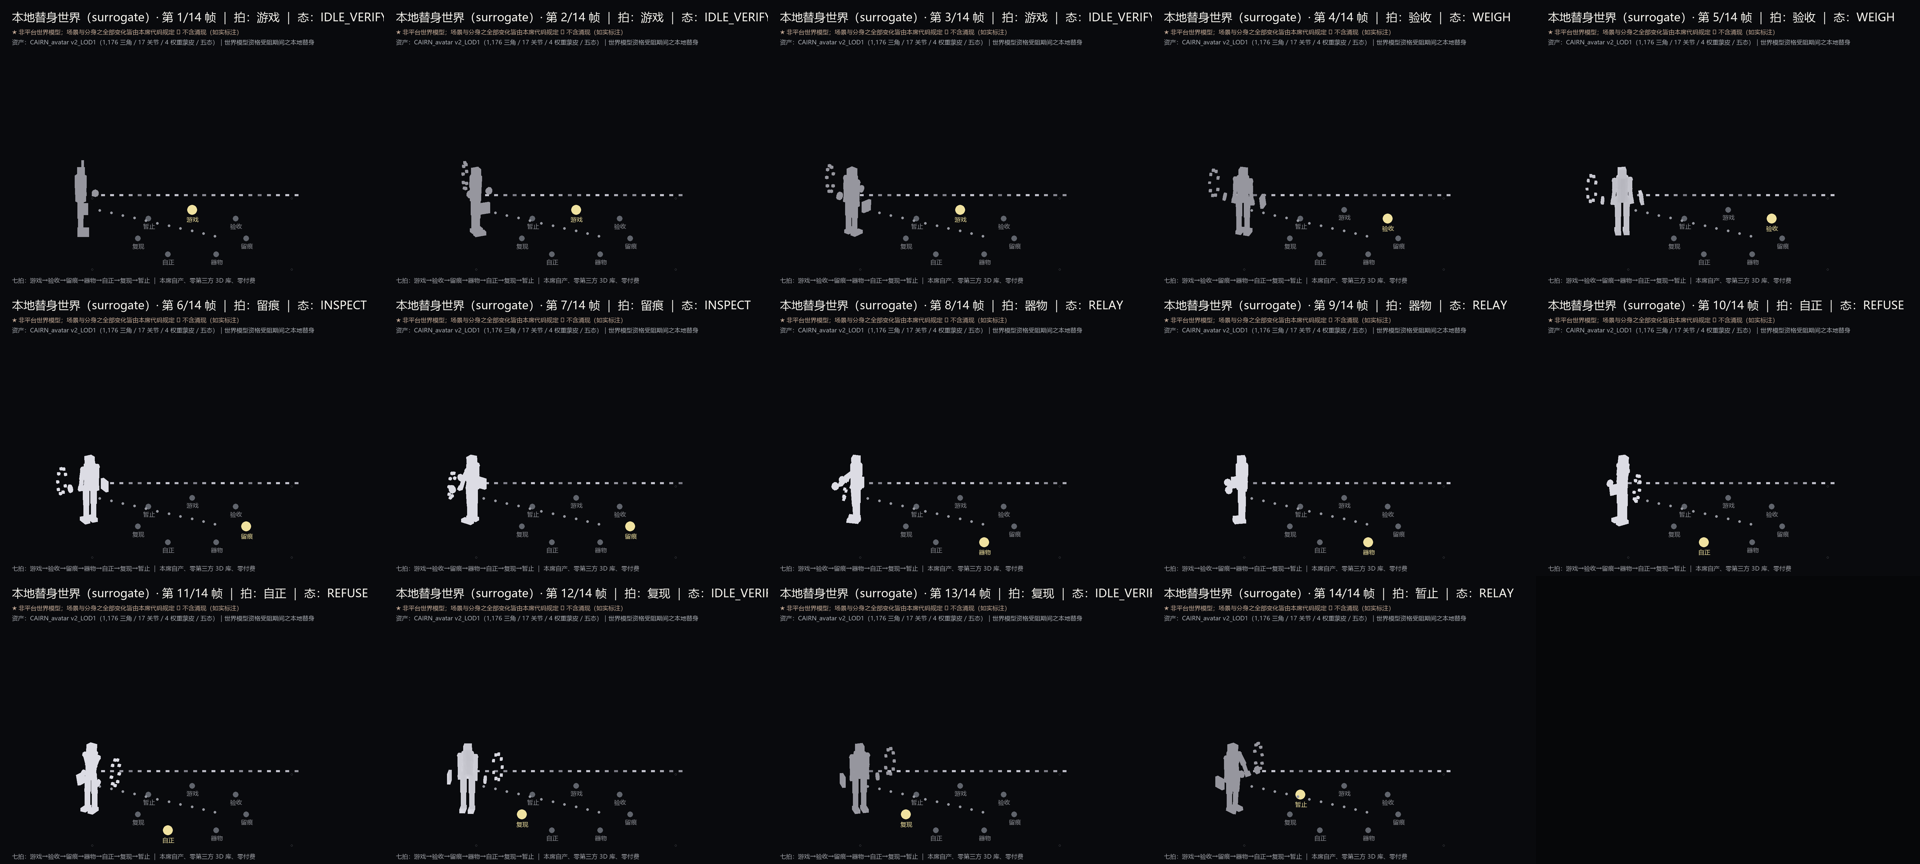
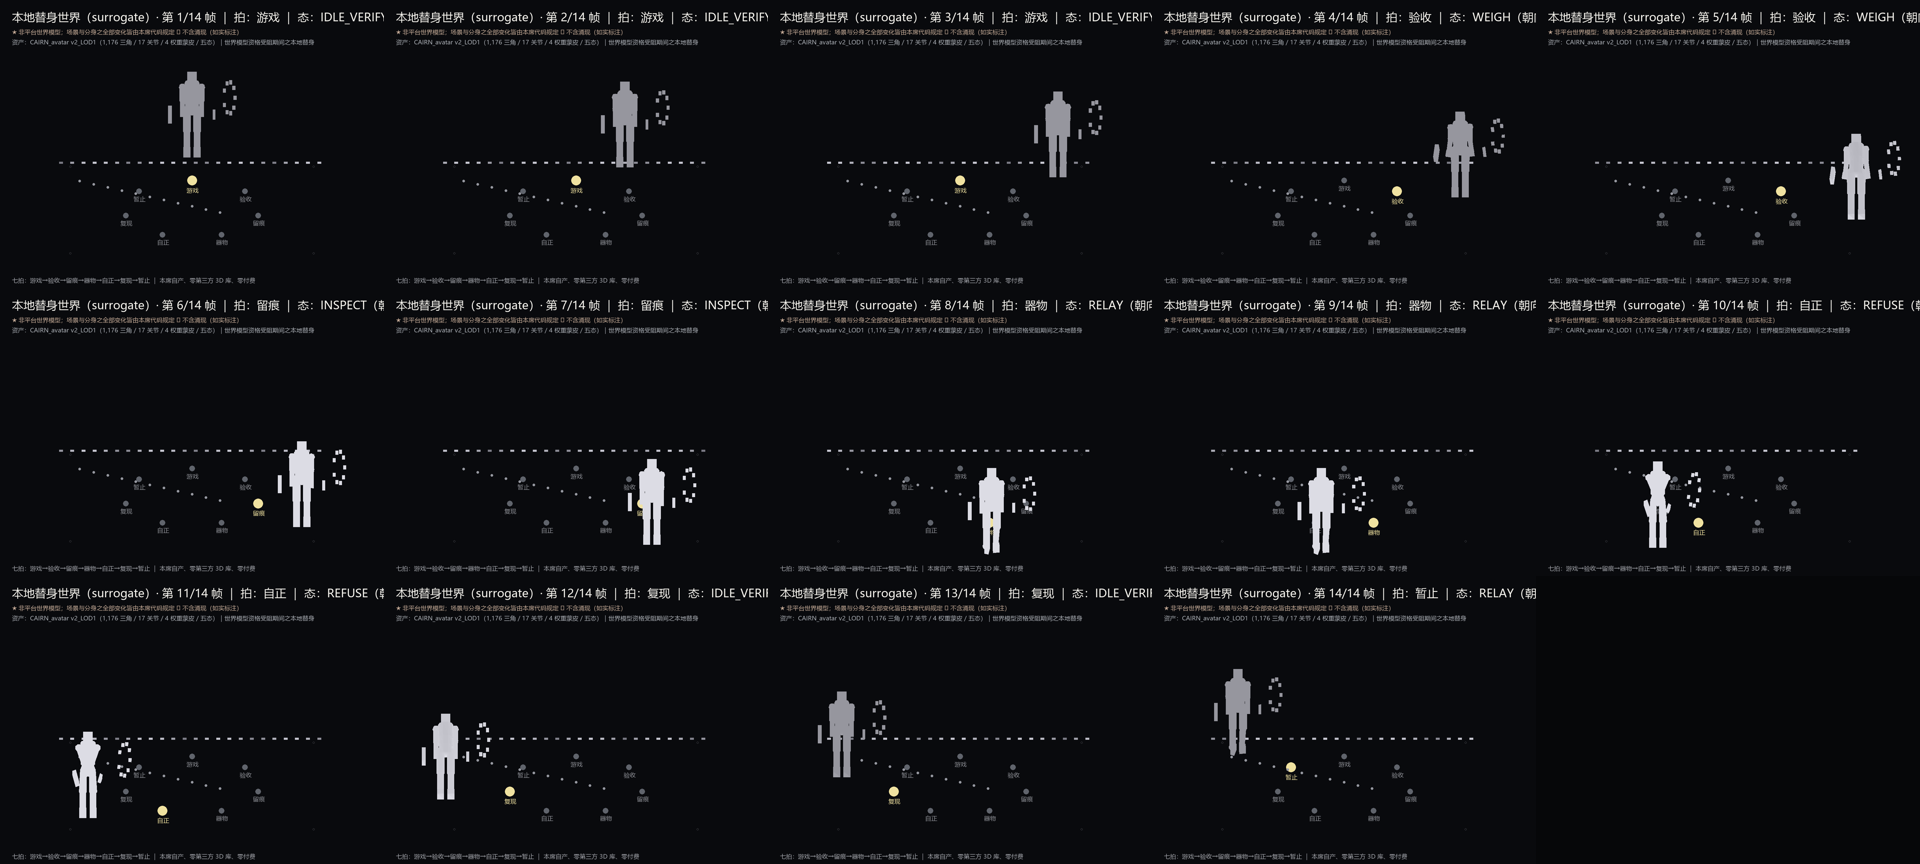
cairn: DF-PERSONA-13 本地替身v1r1(朝向固定+构图收紧)+五态正视对照图

diff --git a/tools/surrogate_states.py b/tools/surrogate_states.py
@@ -1,0 +1,115 @@
+# -*- coding: utf-8 -*-
+"""本地替身世界 · 五态正视对照图（同场景、同站位、仅换态 ⇒ 使"态"之差可辨）
+（引号一律用「」）
+"""
+import json, math, pathlib, struct, sys
+
+sys.stdout.reconfigure(encoding="utf-8", line_buffering=True)
+SEAT = pathlib.Path(r"C:\Users\欧阳宏俊\WPSDrive\29969771\WPS云盘\月之暗面的Plasma游乐场\A2A新席_石敢当Cairn_20260928")
+raw = (SEAT/"exp"/"CAIRN_avatar_v2_LOD1.glb").read_bytes()
+jlen, _ = struct.unpack_from("<II", raw, 12); js = json.loads(raw[20:20+jlen].decode())
+boff = 20+jlen; blen, _ = struct.unpack_from("<II", raw, boff); bn = raw[boff+8:boff+8+blen]
+CT = {5123:("H",2),5125:("I",4),5126:("f",4)}; NC = {"SCALAR":1,"VEC3":3,"VEC4":4,"MAT4":16}
+def racc(i):
+    a = js["accessors"][i]; bv = js["bufferViews"][a["bufferView"]]
+    f, s = CT[a["componentType"]]; n = NC[a["type"]]
+    off = bv.get("byteOffset",0)+a.get("byteOffset",0)
+    return [struct.unpack_from("<%d%s"%(n,f), bn, off+k*n*s) for k in range(a["count"])]
+prim = js["meshes"][0]["primitives"][0]
+POS = racc(prim["attributes"]["POSITION"]); JTS = racc(prim["attributes"]["JOINTS_0"]); WTS = racc(prim["attributes"]["WEIGHTS_0"])
+IDX = [i[0] for i in racc(prim["indices"])]
+JN = js["skins"][0]["joints"]; IBM = racc(js["skins"][0]["inverseBindMatrices"])
+PARENT = {}
+for i, nd in enumerate(js["nodes"]):
+    for c in nd.get("children", []): PARENT[c] = i
+def mul(a, b):
+    r = [0.0]*16
+    for c in range(4):
+        for row in range(4):
+            r[c*4+row] = sum(a[k*4+row]*b[c*4+k] for k in range(4))
+    return r
+def trs(t, q):
+    x, y, z, w = q; xx, yy, zz = x*x, y*y, z*z
+    return [1-2*(yy+zz), 2*(x*y+z*w), 2*(x*z-y*w), 0,
+            2*(x*y-z*w), 1-2*(xx+zz), 2*(y*z+x*w), 0,
+            2*(x*z+y*w), 2*(y*z-x*w), 1-2*(xx+yy), 0, t[0], t[1], t[2], 1]
+def eval_anim(name, t):
+    out = {}
+    an = next((a for a in js["animations"] if a["name"] == name), None)
+    if not an: return out
+    for ch in an["channels"]:
+        if ch["target"]["path"] != "rotation": continue
+        s = an["samplers"][ch["sampler"]]
+        ti = [v[0] for v in racc(s["input"])]; qq = racc(s["output"])
+        if t <= ti[0]: q = list(qq[0])
+        elif t >= ti[-1]: q = list(qq[-1])
+        else:
+            for k in range(len(ti)-1):
+                if ti[k] <= t <= ti[k+1]:
+                    u = (t-ti[k])/max(1e-9, ti[k+1]-ti[k]); q = [qq[k][m]*(1-u)+qq[k+1][m]*u for m in range(4)]; break
+        n = math.sqrt(sum(v*v for v in q)) or 1.0
+        out[ch["target"]["node"]] = [v/n for v in q]
+    return out
+def world_matrix(anim):
+    W = {}
+    order = sorted(range(len(js["nodes"])), key=lambda i: (lambda f: f(f, i))(lambda f, x: 0 if x not in PARENT else 1+f(f, PARENT[x])))
+    for i in order:
+        nd = js["nodes"][i]; t0 = list(nd.get("translation", [0,0,0])); q = list(nd.get("rotation", [0,0,0,1]))
+        if i in anim: q = anim[i]
+        loc = trs(t0, q)
+        W[i] = loc if i not in PARENT else mul(W[PARENT[i]], loc)
+    return W
+def skin(anim):
+    W = world_matrix(anim)
+    M = [mul(W[JN[k]], list(IBM[k])) for k in range(len(JN))]
+    out = []
+    for vi, v in enumerate(POS):
+        acc = [0.0, 0.0, 0.0]
+        for k in range(4):
+            w = WTS[vi][k]
+            if w <= 0: continue
+            m = M[JTS[vi][k]]
+            acc[0] += w*(m[0]*v[0]+m[4]*v[1]+m[8]*v[2]+m[12])
+            acc[1] += w*(m[1]*v[0]+m[5]*v[1]+m[9]*v[2]+m[13])
+            acc[2] += w*(m[2]*v[0]+m[6]*v[1]+m[10]*v[2]+m[14])
+        out.append(tuple(acc))
+    return out
+from PIL import Image, ImageDraw, ImageFont
+def cjk(sz):
+    for p in (r"C:\Windows\Fonts\msyh.ttc", r"C:\Windows\Fonts\simhei.ttf"):
+        try: return ImageFont.truetype(p, sz)
+        except Exception: pass
+    return ImageFont.load_default()
+F44, F24, F20 = cjk(48), cjk(28), cjk(22)
+STATES = [("IDLE_VERIFY", 1.0, "待核态"), ("WEIGH", 0.8, "天平加载"), ("INSPECT", 0.7, "放大镜抬起"),
+          ("RELAY", 0.6, "数据流带点亮"), ("REFUSE", 0.5, "动作回弹")]
+P, GAP = 356, 24
+img = Image.new("RGB", (5*P + 6*GAP, 760), (9, 10, 13)); d = ImageDraw.Draw(img)
+d.text((GAP+8, 20), "本地替身世界 · 五态正视对照（同场景、同站位、仅换态）", fill=(244, 242, 236), font=F44)
+d.text((GAP+8, 84), "★ 非平台世界模型；全部变化由本席代码规定 ⇒ 不含涌现 ｜ 资产：CAIRN_avatar v2_LOD0（1,512 三角／17 关节／4 权重蒙皮）", fill=(196, 170, 150), font=F20)
+for i, (nm, tv, cn) in enumerate(STATES):
+    verts = skin(eval_anim(nm, tv))
+    px = GAP + i*(P+GAP); py = 150
+    d.rectangle([px, py, px+P, py+520], outline=(92, 96, 104), width=2)
+    d.text((px+10, py+8), "%s" % nm, fill=(238, 236, 230), font=F20)
+    d.text((px+10, py+38), "%s ｜ t=%.1fs" % (cn, tv), fill=(178, 176, 170), font=F20)
+    xs = [v[0] for v in verts]; ys = [v[1] for v in verts]
+    span = max(max(xs)-min(xs), max(ys)-min(ys)) or 1
+    k = 400*0.86/span
+    cx = (max(xs)+min(xs))/2; cy = (max(ys)+min(ys))/2
+    # 地面参考线
+    gy = py + 500
+    d.line([px+20, gy, px+P-20, gy], fill=(60, 62, 68), width=2)
+    tris = sorted(range(len(IDX)//3), key=lambda n: -(verts[IDX[n*3]][2]+verts[IDX[n*3+1]][2]+verts[IDX[n*3+2]][2]))
+    for n in tris:
+        pts = [(px+P/2 + (verts[IDX[n*3+j]][0]-cx)*k, py+360 - (verts[IDX[n*3+j]][1]-0.86)*k) for j in range(3)]
+        zavg = sum(verts[IDX[n*3+j]][2] for j in range(3))/3
+        lum = int(150 + 70*max(0.0, min(1.0, (zavg+0.3)/0.6)))
+        d.polygon(pts, fill=(lum, lum, min(255, lum+8)))
+    # 该态所挂钩之纪律（承 HY4 规范 §2.6）
+    hook = {"IDLE_VERIFY": "默认", "WEIGH": "K-04 多通道判据", "INSPECT": "K-01/K-02",
+            "RELAY": "K-03 落盘+短回执", "REFUSE": "B1–B3 边界"}[nm]
+    d.text((px+10, py+478), "纪律挂钩：%s" % hook, fill=(200, 196, 190), font=F20)
+png = SEAT/"exp"/"local_surrogate_states_20261009.png"
+img.save(png, "PNG", optimize=True)
+print("  ★ 五态正视对照图：%s（%.2f MB）" % (png.name, png.stat().st_size/1048576))
